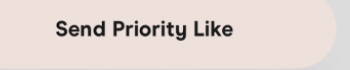
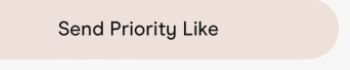
Widen click randomization for anti-detection
Heart click offset: ±5 → ±20 horizontal, ±8 vertical (image coords)
Send/textbox click offset: ±3 → ±30 horizontal, ±8 vertical
Refresh send_priority_like.png template

Changed region(s): [[0.0, 0.0, 1.0, 1.0], [0.1429, 0.2857, 0.6857, 0.6]]

diff --git a/gui.py b/gui.py
@@ -659,9 +659,9 @@ class WannaTapThatApp:
                     consecutive_failures += 1
                     time.sleep(1)
                     continue
-                # Add small random offset to click position (more human-like)
-                offset_x = random.randint(-5, 5)
-                offset_y = random.randint(-5, 5)
+                # Random offset in image coords (retina 2x, so /2 for screen px)
+                offset_x = random.randint(-20, 20)
+                offset_y = random.randint(-8, 8)
                 click_at(heart_pos[0] + offset_x, heart_pos[1] + offset_y, window)
                 debug_logger.log(f"Clicked heart at ({heart_pos[0]}, {heart_pos[1]})")
 
@@ -684,8 +684,8 @@ class WannaTapThatApp:
 
                     if send_pos and send_pos[1] >= min_send_y:
                         random_delay(0.2, 0.4, should_stop=lambda: not self.running)
-                        offset_x = random.randint(-3, 3)
-                        offset_y = random.randint(-3, 3)
+                        offset_x = random.randint(-30, 30)
+                        offset_y = random.randint(-8, 8)
                         click_at(send_pos[0] + offset_x, send_pos[1] + offset_y, window)
                         sent += 1
                         consecutive_failures = 0
@@ -737,8 +737,8 @@ class WannaTapThatApp:
                         debug_logger.save_screenshot(image, "04_textbox_not_found")
 
                     if textbox_pos:
-                        offset_x = random.randint(-3, 3)
-                        offset_y = random.randint(-3, 3)
+                        offset_x = random.randint(-30, 30)
+                        offset_y = random.randint(-8, 8)
                         click_at(textbox_pos[0] + offset_x, textbox_pos[1] + offset_y, window)
                         debug_logger.log(f"Clicked textbox at ({textbox_pos[0]}, {textbox_pos[1]})")
                         random_delay(0.3, 0.6, should_stop=lambda: not self.running)
@@ -772,8 +772,8 @@ class WannaTapThatApp:
 
                         if send_pos and send_pos[1] >= min_send_y:
                             random_delay(0.2, 0.5, should_stop=lambda: not self.running)
-                            offset_x = random.randint(-3, 3)
-                            offset_y = random.randint(-3, 3)
+                            offset_x = random.randint(-30, 30)
+                            offset_y = random.randint(-8, 8)
                             click_at(send_pos[0] + offset_x, send_pos[1] + offset_y, window)
                             sent += 1
                             consecutive_failures = 0